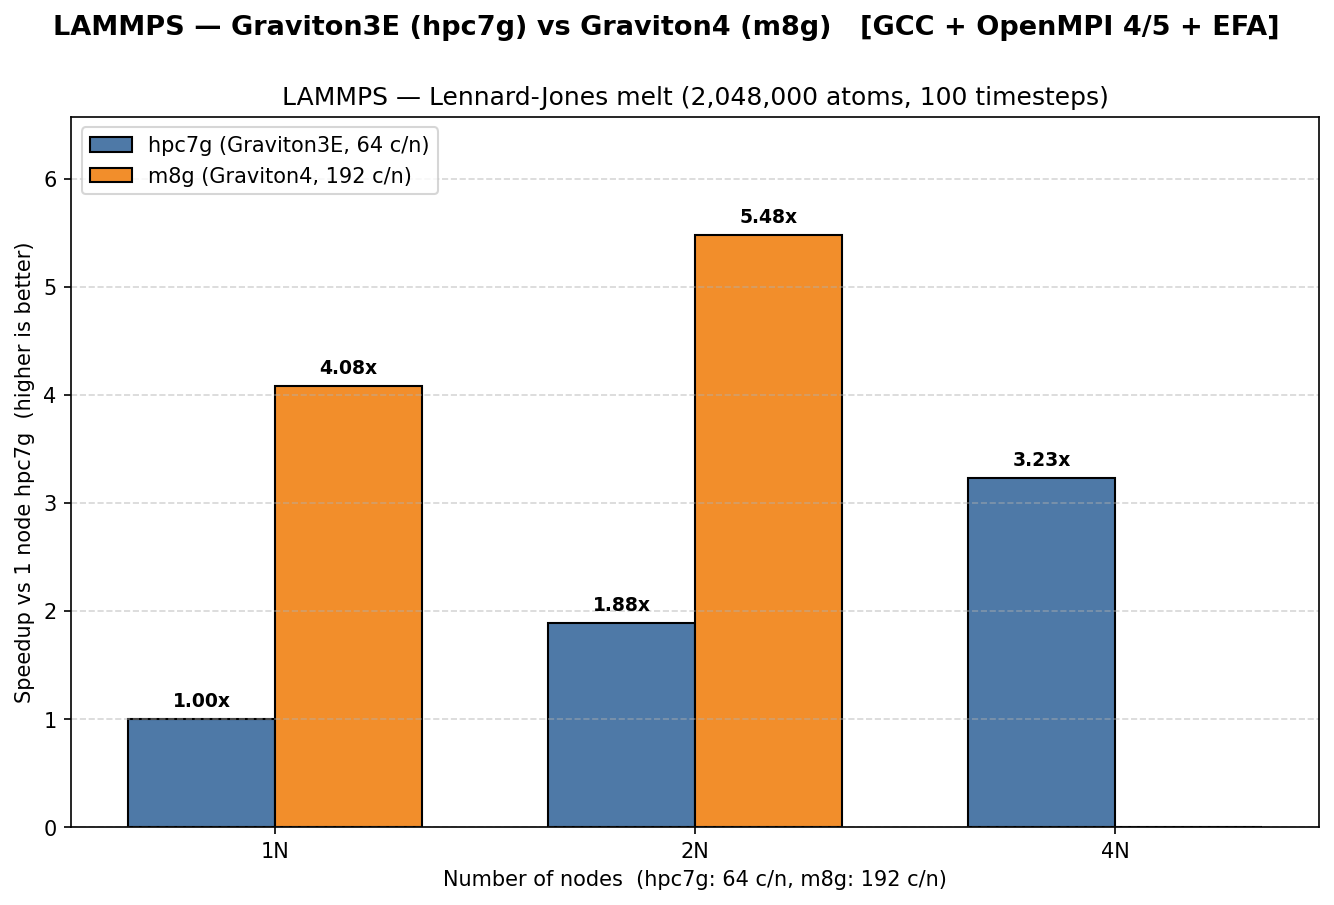
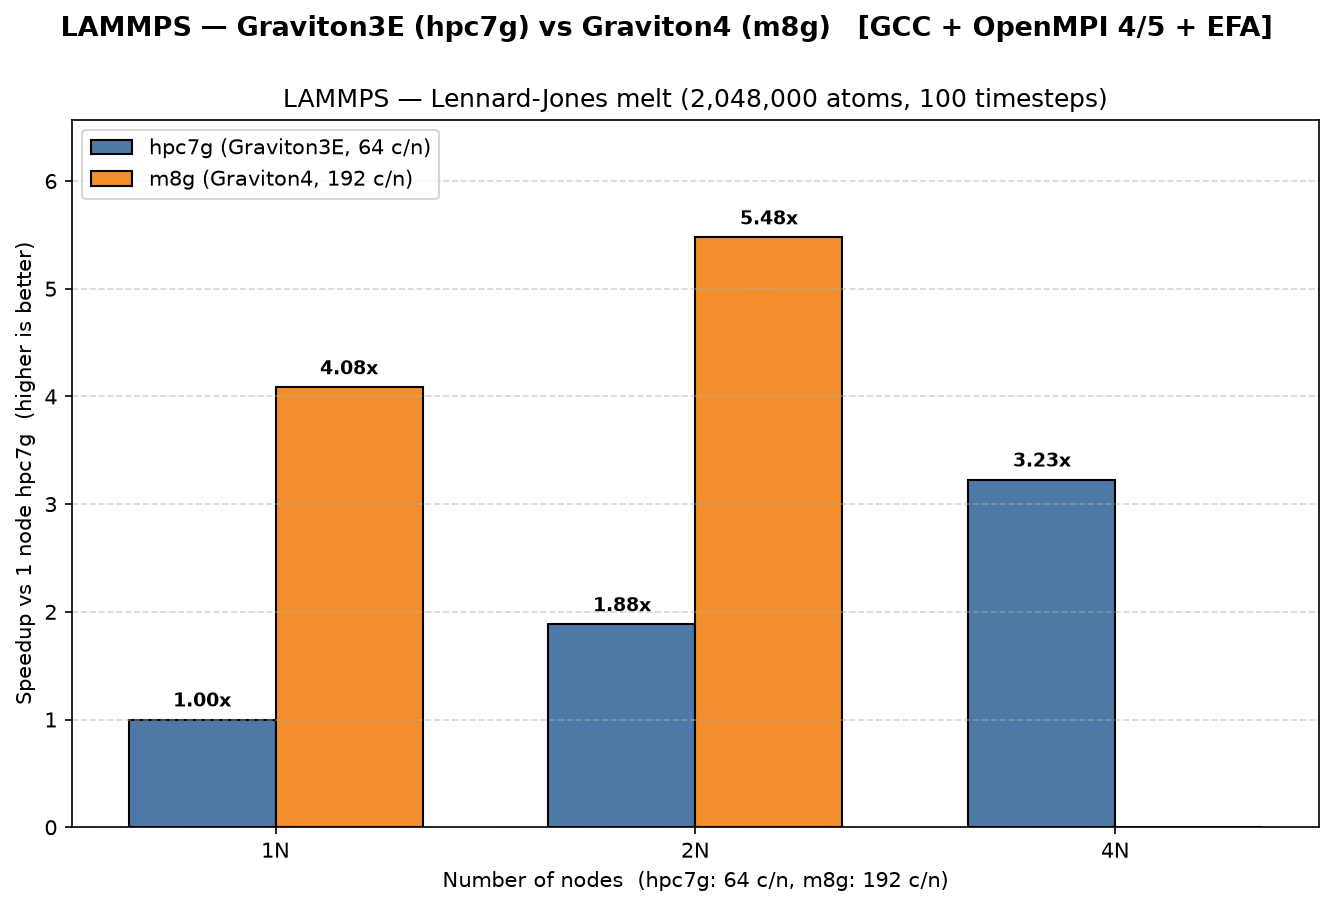
docs(LAMMPS): the Arm chart's generator embeds relative values only
Doc/img/LAMMPS/generate_charts.py held the Arm runs' absolute Loop times and
named the table they were read from. It now holds each configuration's
relative performance from the same runs, one Graviton3E node = 1.00 (the
mean of the reference node's 3 runs over the mean of the configuration's 3
runs), and prints relative values only.

With matplotlib 3.11.2 it writes the same PNG as the previous generator,
byte for byte. LAMMPS-LJ-Graviton3VsGraviton4.png is now that rendering (the
committed one came from another matplotlib version), so it regenerates byte
for byte from the generator. The chart and the README's values are
unchanged.

diff --git a/Doc/img/LAMMPS/generate_charts.py b/Doc/img/LAMMPS/generate_charts.py
@@ -18,36 +18,21 @@ import matplotlib.pyplot as plt
 import numpy as np
 
 # ---------------------------------------------------------------------------
-# Measured data — LAMMPS LJ s=4, Loop time (s), means of N replicas.
-# Pulled from DynamoDB table LAMMPS_Benchmarks (us-east-1).
+# Measured data: in.lj at SCALE=4 for 100 timesteps, pure MPI, compared on
+# the LAMMPS-reported Loop time. Each value is the mean Loop time of 3 runs on
+# one Graviton3E node over the mean of the configuration's 3 runs, so higher
+# is faster. Only relative values and run counts are embedded here.
 # ---------------------------------------------------------------------------
+RUNS = 3  # runs per configuration
 
-# Arm ---------------------------------------------------------------------
+# Graviton3E (64 cores per node, OpenMPI 4): 1, 2 and 4 nodes
 nodes_arm = np.array([1, 2, 4])
+su_hpc7g = np.array([1.0000, 1.8846, 3.2274])
 
-# hpc7g (Graviton3E, OpenMPI 4): 3 replicas at every node count
-t_hpc7g_1n = [1.93697, 1.94593, 1.94921]
-t_hpc7g_2n = [1.01968, 1.03134, 1.04365]
-t_hpc7g_4n = [0.594353, 0.600465, 0.612252]
-t_hpc7g = np.array([np.mean(t_hpc7g_1n),
-                    np.mean(t_hpc7g_2n),
-                    np.mean(t_hpc7g_4n)])
-
-# m8g (Graviton4, OpenMPI 5): 3 replicas at 1N and 2N; 4N data not collected
-# in this sweep. Plotted as a partial curve.
-t_m8g_1n = [0.473154, 0.475054, 0.479638]
-t_m8g_2n = [0.352756, 0.352925, 0.359313]
+# Graviton4 (192 cores per node, OpenMPI 5): 1 and 2 nodes; 4N data not
+# collected in this sweep. Plotted as a partial curve.
 nodes_m8g = np.array([1, 2])
-t_m8g = np.array([np.mean(t_m8g_1n),
-                  np.mean(t_m8g_2n)])
-
-# ---------------------------------------------------------------------------
-# Speedups
-# ---------------------------------------------------------------------------
-baseline_arm = t_hpc7g[0]   # 1N hpc7g
-
-su_hpc7g = baseline_arm / t_hpc7g
-su_m8g   = baseline_arm / t_m8g
+su_m8g = np.array([4.0846, 5.4762])
 
 # ---------------------------------------------------------------------------
 # Styling — match WRF / OpenRadioss convention
@@ -101,15 +86,14 @@ plt.savefig("LAMMPS-LJ-Graviton3VsGraviton4.png",
 print("Wrote LAMMPS-LJ-Graviton3VsGraviton4.png")
 
 # ---------------------------------------------------------------------------
-# Summary table
+# Summary table (the README's)
 # ---------------------------------------------------------------------------
-print("\n=== Arm LJ s=4 Loop time (s) ===")
-print(f"{'Nodes':<6}{'hpc7g':>10}{'m8g':>10}{'hpc7g_su':>12}{'m8g_su':>12}")
+print("\n=== Arm LJ s=4: relative performance (1 Graviton3E node = 1.00), "
+      f"{RUNS} runs per point ===")
+print(f"{'Nodes':<6}{'Graviton3E':>12}{'Graviton4':>12}")
 for i, n in enumerate(nodes_arm):
     if n in nodes_m8g:
         m_idx = list(nodes_m8g).index(n)
-        print(f"{n}N    {t_hpc7g[i]:>10.4f}{t_m8g[m_idx]:>10.4f}"
-              f"{su_hpc7g[i]:>11.2f}x{su_m8g[m_idx]:>11.2f}x")
+        print(f"{n}N    {su_hpc7g[i]:>11.2f}x{su_m8g[m_idx]:>11.2f}x")
     else:
-        print(f"{n}N    {t_hpc7g[i]:>10.4f}{'—':>10}"
-              f"{su_hpc7g[i]:>11.2f}x{'—':>12}")
+        print(f"{n}N    {su_hpc7g[i]:>11.2f}x{'—':>12}")
